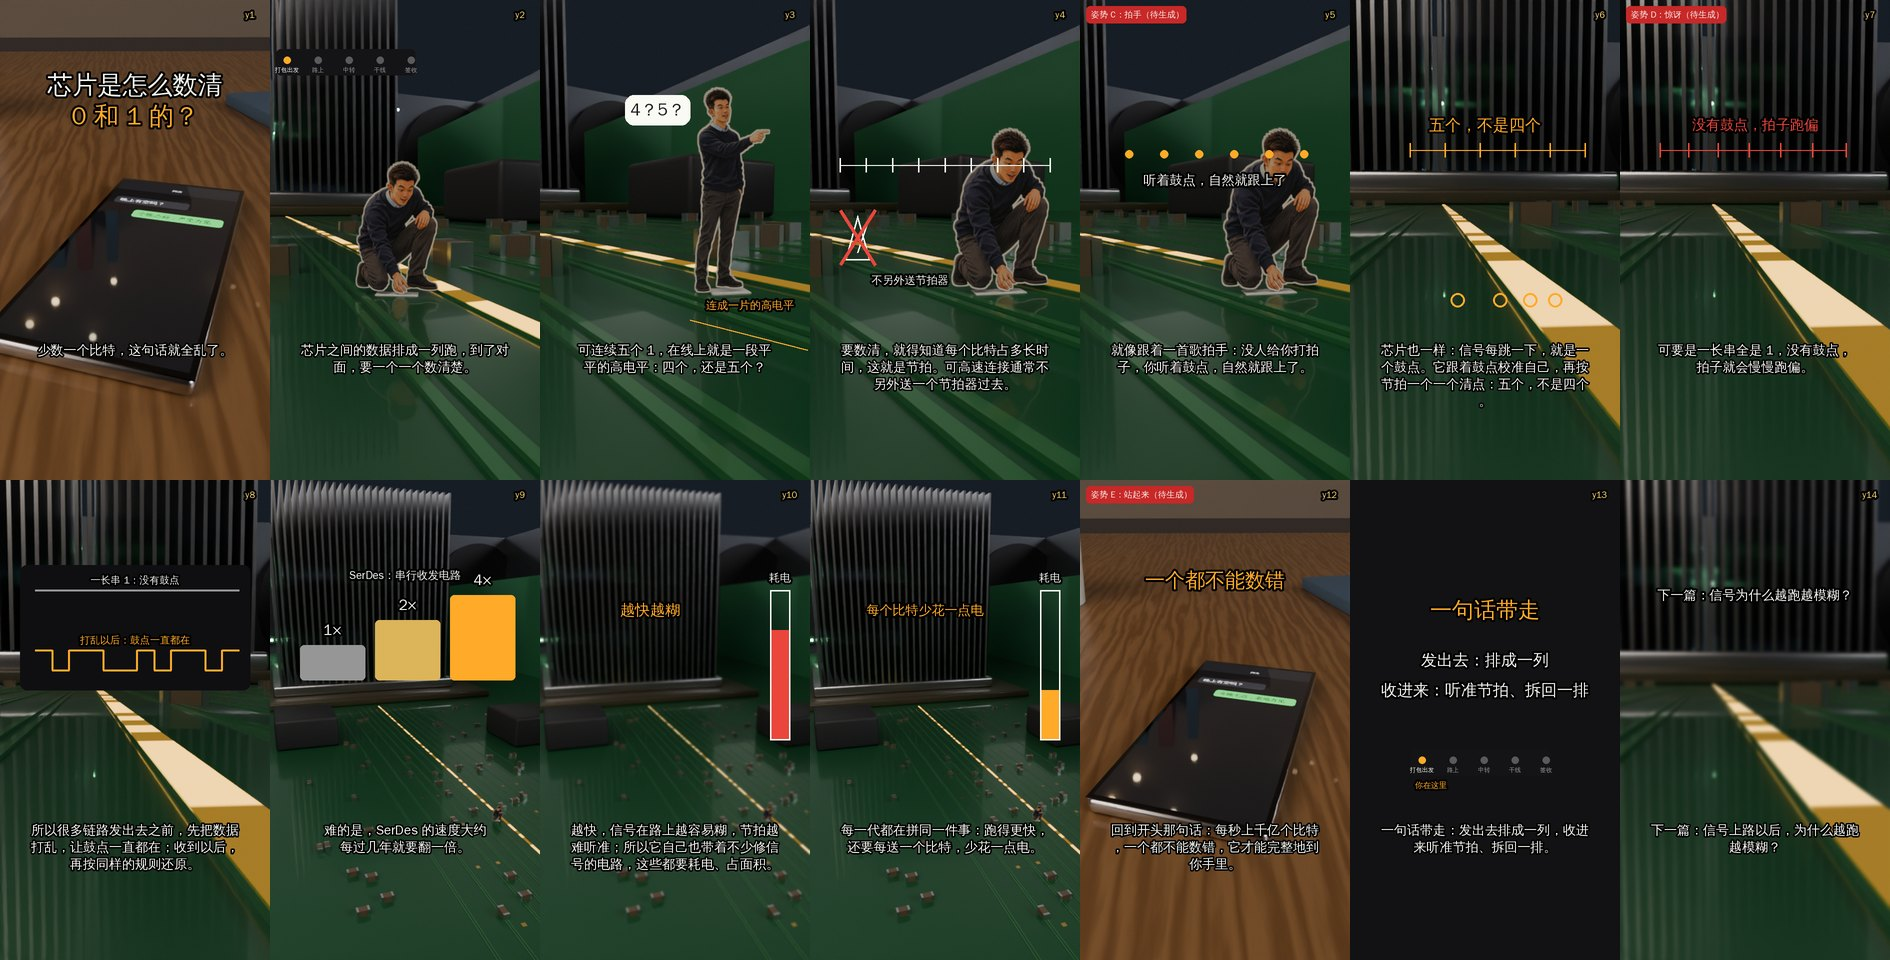
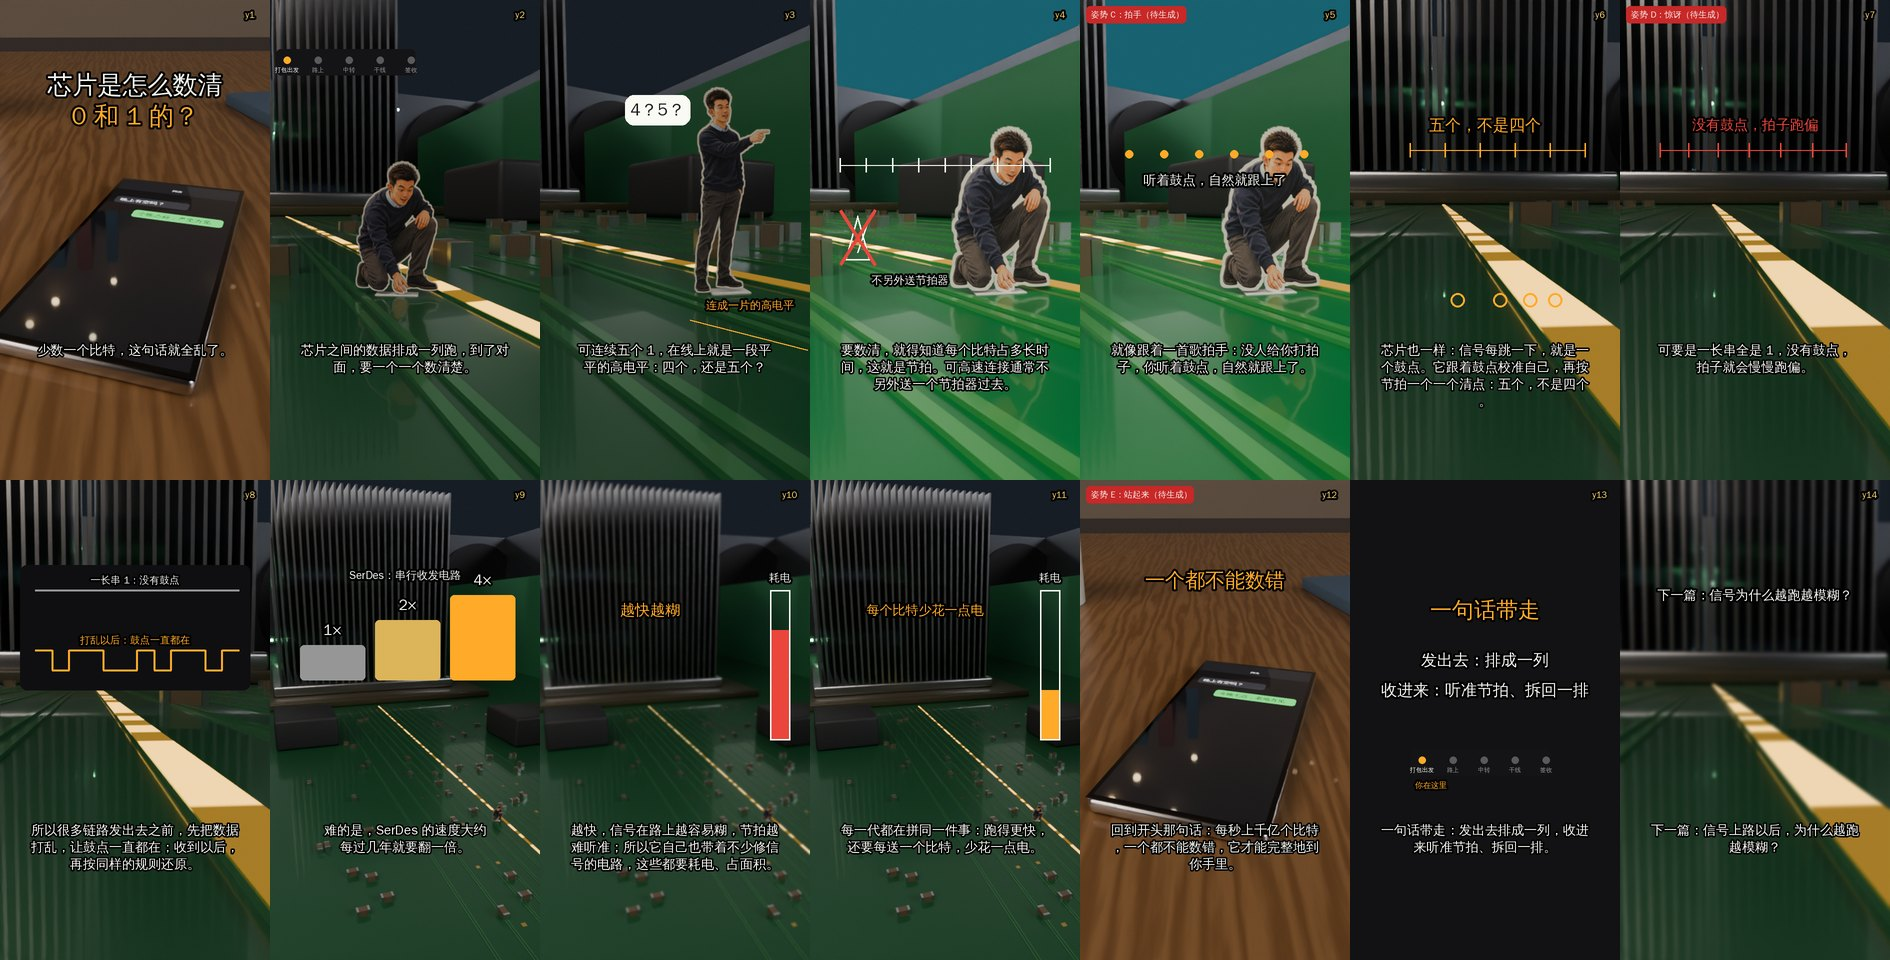
02 下集新画面版：重新生成原稿 14 句配音（科普声线，任务号记在 配音/tasks.txt）；B 段提亮（亮度 0.34、色度 0.21）、纸片立牌白边加宽；带配音的每句一帧草稿样片脚本
Claude-Session: https://claude.ai/code/session_017cWy2AeTL5LJcSvHYkiP7A

Changed region(s): [[0.4058, 0.0, 0.718, 0.5]]

diff --git a/episodes/guanghulian/02-serdes/下集_新风格/blender/shot_open.py b/episodes/guanghulian/02-serdes/下集_新风格/blender/shot_open.py
@@ -149,8 +149,8 @@ if SHOT == 'A':
     sun = bpy.data.lights.new('key', 'AREA'); sun.energy = 2.5e6; sun.size = 600; sun.color = (1.0, 0.82, 0.62)
     obj('key', sun, None, (-500, -200, 700), (math.radians(40), math.radians(-35), 0))
 else:
-    plane('board', 400, 400, mat('solder_mask', (0.025, 0.14, 0.06), 0.0, 0.32, coat=0.5, noise_bump=0.05, noise_scale=8), (0, 60, 0))
-    mask_cu = mat('mask_over_copper', (0.07, 0.27, 0.11), 0.15, 0.28, coat=0.5)
+    plane('board', 400, 400, mat('solder_mask', (0.02, 0.24, 0.07), 0.0, 0.34, coat=0.5, noise_bump=0.05, noise_scale=8), (0, 60, 0))
+    mask_cu = mat('mask_over_copper', (0.10, 0.42, 0.13), 0.15, 0.28, coat=0.5)
     pairs = []
     for px in [0.0] + [s * d for d in (1.3, 2.6, 3.9, 5.2, 7.5, 9.8) for s in (-1, 1)]:
         for dx in (-0.105, 0.105): pairs.append((px + dx, 20, 0.0175, 0.09, 80, 0.035))
@@ -216,7 +216,7 @@ wd = bpy.data.worlds.new('w'); sc.world = wd; wd.use_nodes = True; N = wd.node_t
 bg = N['Background']; bg.inputs['Strength'].default_value = 0.35
 if os.path.exists(HDRI):
     env = N.new('ShaderNodeTexEnvironment'); env.image = bpy.data.images.load(HDRI); L.new(env.outputs['Color'], bg.inputs['Color'])
-lp = N.new('ShaderNodeLightPath'); mx = N.new('ShaderNodeMixShader'); dark = N.new('ShaderNodeBackground'); dark.inputs['Color'].default_value = (0.02, 0.025, 0.035, 1) if SHOT == 'B' else (0.05, 0.04, 0.035, 1)
+lp = N.new('ShaderNodeLightPath'); mx = N.new('ShaderNodeMixShader'); dark = N.new('ShaderNodeBackground'); dark.inputs['Color'].default_value = (0.02, 0.07, 0.09, 1) if SHOT == 'B' else (0.05, 0.04, 0.035, 1)
 out = N['World Output']; L.new(lp.outputs['Is Camera Ray'], mx.inputs['Fac']); L.new(bg.outputs[0], mx.inputs[1]); L.new(dark.outputs[0], mx.inputs[2]); L.new(mx.outputs[0], out.inputs[0])
 if CYCLES:
     sc.render.engine = 'CYCLES'; sc.cycles.samples = SAMP; sc.cycles.use_denoising = True; sc.cycles.max_bounces = 4; sc.cycles.device = 'CPU'
@@ -225,7 +225,7 @@ else:
     sc.render.engine = 'BLENDER_EEVEE' if 'BLENDER_EEVEE' in ENG else 'BLENDER_EEVEE_NEXT'; sc.eevee.taa_render_samples = SAMP
 sc.render.resolution_x, sc.render.resolution_y = W, H; sc.render.fps = FPS; sc.frame_start, sc.frame_end = 1, NF
 sc.render.use_motion_blur = True; sc.render.motion_blur_shutter = 0.5
-sc.view_settings.view_transform = 'AgX'
+sc.view_settings.view_transform = 'AgX'; sc.view_settings.exposure = 0.9 if SHOT == 'B' else 0.2
 try: sc.view_settings.look = 'AgX - Medium High Contrast'
 except Exception: pass
 sc.render.image_settings.file_format = 'PNG'

diff --git a/episodes/guanghulian/02-serdes/下集_新风格/blender/make_assets.py b/episodes/guanghulian/02-serdes/下集_新风格/blender/make_assets.py
@@ -6,7 +6,7 @@ CUT = sys.argv[1]                                   # 抠好图的目录（A.png
 for k in ('A', 'B'):
     c = Image.open(os.path.join(CUT, k + '.png')).convert('RGBA'); pad = 24
     big = Image.new('RGBA', (c.width + 2 * pad, c.height + 2 * pad)); big.alpha_composite(c, (pad, pad))
-    al = big.split()[3].filter(ImageFilter.MaxFilter(21)).filter(ImageFilter.GaussianBlur(1.2))
+    al = big.split()[3].filter(ImageFilter.MaxFilter(41)).filter(ImageFilter.GaussianBlur(1.2))
     paper = Image.new('RGBA', big.size, (247, 243, 233, 255)); paper.putalpha(al); paper.alpha_composite(big)
     paper.save(os.path.join(A, f'standee_{k}.png')); print('standee', k, paper.size)
 FONT = '/usr/share/fonts/truetype/wqy/wqy-zenhei.ttc'

diff --git a/episodes/guanghulian/02-serdes/下集_新风格/草稿/beats.py b/episodes/guanghulian/02-serdes/下集_新风格/草稿/beats.py
@@ -87,3 +87,5 @@ sheet = Image.new('RGB', (W * 7 // 2, H * 2 // 2 * 2 // 2 * 2 // 2))
 tw, th = W // 2, H // 2; sheet = Image.new('RGB', (tw * 7, th * 2), (0, 0, 0))
 for i, im in enumerate(frames): sheet.paste(im.resize((tw, th), Image.LANCZOS), ((i % 7) * tw, (i // 7) * th))
 sheet.save(os.path.join(HERE, '下集_草稿接触表_v1.jpg'), quality=86); print('ok', len(frames))
+os.makedirs(os.path.join(HERE, 'beats'), exist_ok=True)
+for i, im in enumerate(frames): im.save(os.path.join(HERE, 'beats', f'y{i + 1}.png'))
